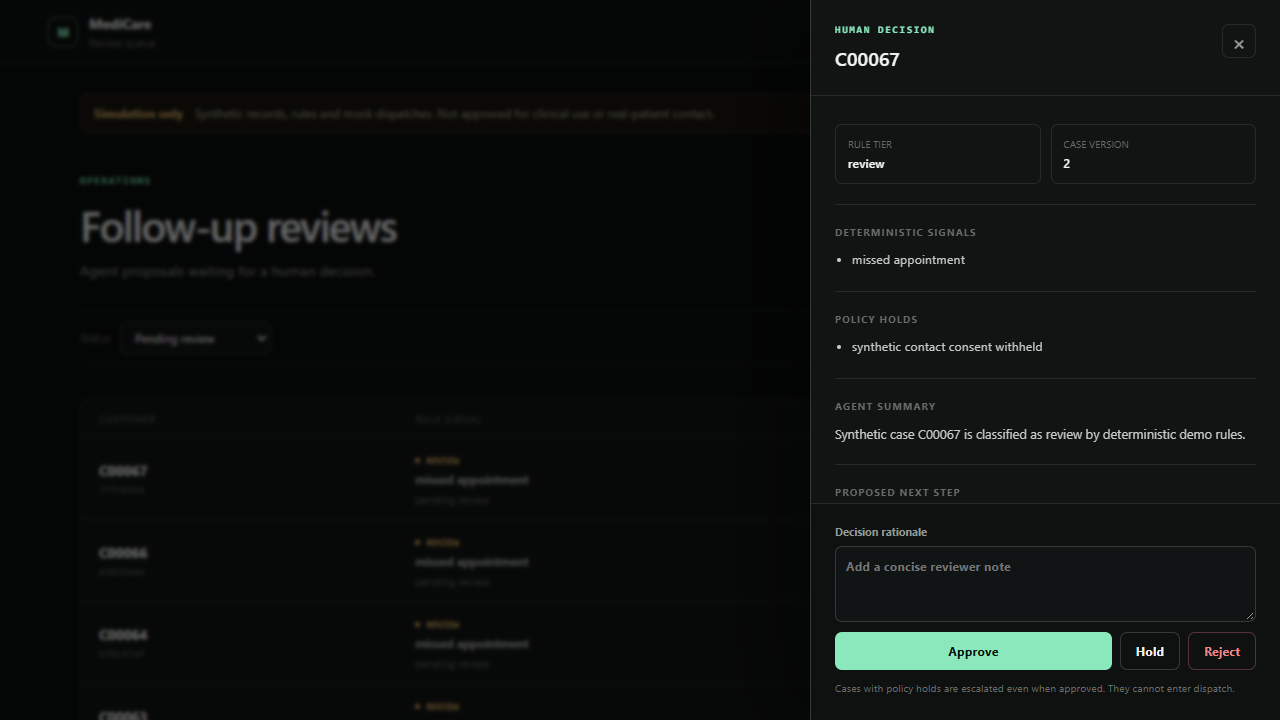
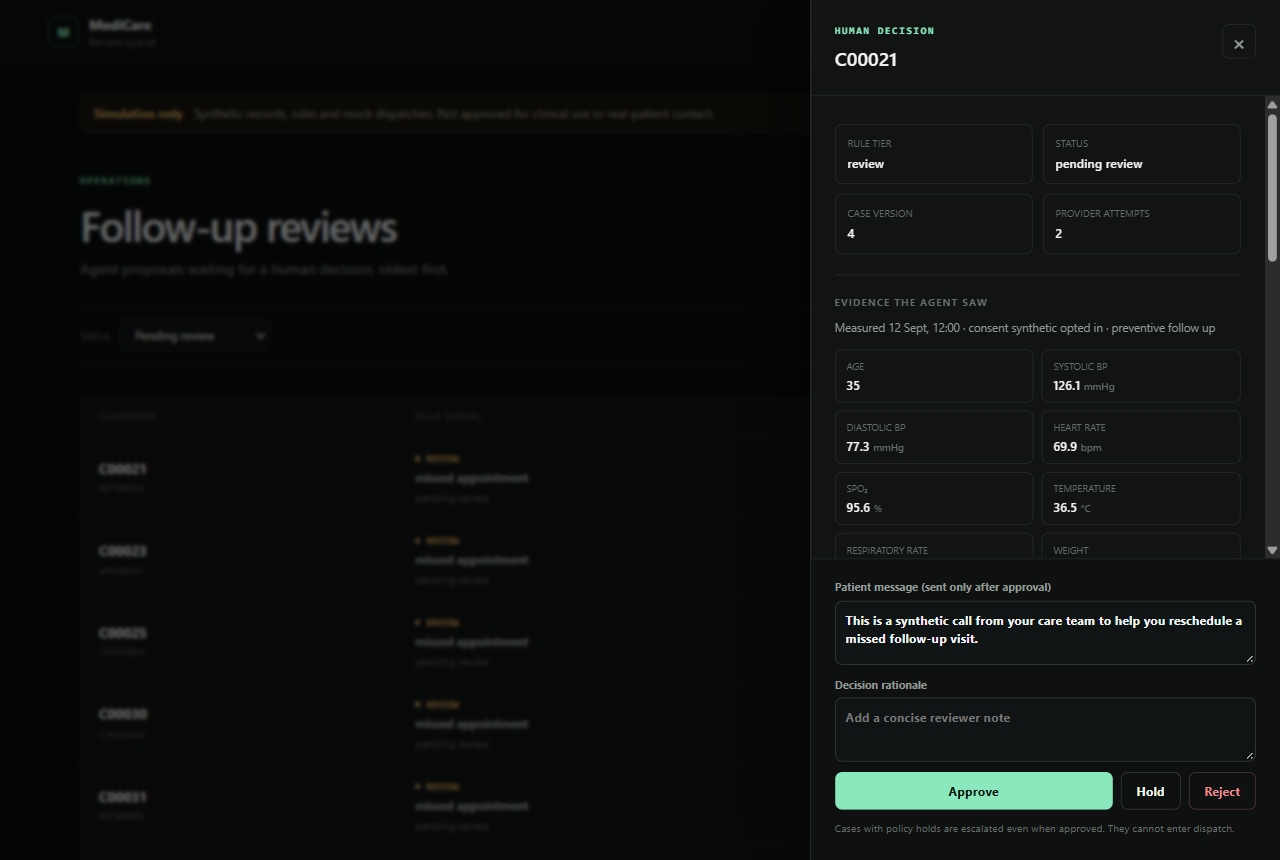
Document hardening and add verification evidence
- README: screenshots of the queue, evidence grid, guardrail rejection,
  escalated case and the OIDC + TOTP sign-in, plus a verification table.
- VERIFICATION: PostgreSQL, container stack, pip-audit and Keycloak
  identity-provider results, with reproducible setup steps.
- Architecture, security, operations and data dictionary updated for
  the new state machine, recovery paths and audit sealing.
- ops/keycloak/medicare-realm.dev.json: local-only test realm.

diff --git a/README.md b/README.md
@@ -27,11 +27,17 @@ The model drafts a bounded proposal. Deterministic code owns the risk tier, cons
 
 - 10,000 reproducible synthetic customers and 15 measurements per customer.
 - FastAPI control plane and separate HTTP model gateway.
-- Mandatory approve, hold or reject review with stale-write protection.
+- Mandatory approve, hold or reject review with stale-write protection; held cases can be
+  re-reviewed and escalated cases are closed with a recorded rationale.
+- Reviewers see the exact evidence the agent saw and approve the patient-facing message, which
+  is separate from staff guidance and re-checked by guardrails when edited.
 - Versioned consent evidence and non-bypassable safety holds.
-- Idempotent case creation, transactional outbox and a separate authenticated caller service.
-- Hash-linked audit events.
-- Local reviewer keys plus production OIDC/JWT, reviewer scope and MFA enforcement.
+- Idempotent case creation, transactional outbox with lease recovery and a separate authenticated
+  caller service.
+- Automatic recovery of stuck model runs and bounded, backed-off provider retries.
+- Keyed (HMAC-SHA256), sealed audit chains that detect edits, forks and truncation.
+- Local reviewer keys plus production OIDC (authorization code + PKCE) with scope and MFA
+  enforcement.
 - File-mounted secrets and overlapping service-key rotation.
 - PostgreSQL/SQLite, Alembic, Docker Compose and non-root containers.
 - Protected Prometheus metrics, alert rules and worker heartbeats.
@@ -41,11 +47,45 @@ The generated measurements are blood pressure, heart rate, oxygen saturation, te
 
 ## Reviewer console
 
-The console keeps the queue compact and moves case evidence, guardrail holds, the proposal and the decision controls into a focused review drawer.
+The console keeps the queue compact (oldest first, paginated) and moves case evidence, guardrail
+holds, the proposal and the decision controls into a focused review drawer. Screenshots were
+captured on 2026-10-13 from a local run against the real API, model gateway and seeded 10,000-row
+synthetic dataset.
+
+**Review queue.** Pending cases, oldest first, with the deterministic rule signal for each.
 
 ![MediCare review queue](docs/assets/review-queue.png)
 
+**Case drawer.** Rule tier, status, version and provider attempts, then the decision form. The
+patient message is pre-filled from the proposal and is the only text that can leave the system.
+
 ![MediCare case review drawer](docs/assets/review-drawer.png)
+
+**Evidence the agent saw.** The stored snapshot of all 15 synthetic measurements, so a reviewer is
+not approving blind.
+
+![Evidence grid in the review drawer](docs/assets/review-evidence.png)
+
+**Guardrails on reviewer edits.** An edited message containing a phone number is rejected with the
+failing check shown inside the drawer. The audit chain status shows a valid, sealed chain.
+
+![Edited patient message blocked by guardrails](docs/assets/review-message-guardrail.png)
+
+**Escalated cases.** Cases with policy holds (here: consent withheld) never enter dispatch. The
+only action is to close them once offline follow-up is recorded.
+
+![Escalated case with close action](docs/assets/review-escalated.png)
+
+**Organization sign-in (OIDC + MFA).** In OIDC mode the console uses the authorization-code flow
+with PKCE. Verified against a real Keycloak 26.0.7 identity provider: password, then a TOTP second
+factor, then back to the console with an access token that the API validates against the IdP's
+JWKS (issuer, audience, `medicare:review` scope and `amr: ["mfa"]`). A password-only token was
+refused with `403 Reviewer MFA claim is required`. Setup steps are in
+[Verification](docs/VERIFICATION.md#identity-provider-login-keycloak).
+
+![Keycloak one-time code prompt](docs/assets/oidc-mfa-prompt.png)
+
+![Console signed in through the identity provider](docs/assets/oidc-signed-in.png)
 
 ## Local run
 
@@ -84,11 +124,16 @@ Run one automated batch through the service boundary:
 uv run python -m medicare_agent.worker automation --once
 ```
 
-Open `http://127.0.0.1:8000`, use the reviewer token from `REVIEWER_API_KEYS`, inspect a case and record a decision. Process an approved caller event with:
+Open `http://127.0.0.1:8000`, use the reviewer token from `REVIEWER_API_KEYS`, inspect a case and record a decision. Drain approved caller events with:
 
 ```powershell
-uv run medicare dispatch-one
+uv run python -m medicare_agent.worker dispatch --once
 ```
+
+Each automation tick also calls `POST /api/v1/agent/maintenance`, which fails model runs stuck in
+`provider_pending` and returns failed runs whose retry backoff has elapsed; the worker then retries
+them. Customers are marked when their first case is created, so retention never makes them eligible
+for automated contact again.
 
 ## Containers
 
@@ -98,7 +143,11 @@ docker compose up --build
 
 This starts PostgreSQL, migration/bootstrap, model gateway, caller service, API and both workers. The dashboard is available at `http://127.0.0.1:8000`.
 
-The production override removes inline application secrets and requires OIDC, HTTPS, explicit hosts and an approved release manifest:
+The production override removes inline application secrets and requires OIDC (including the
+browser client settings), HTTPS, explicit hosts, a file-mounted audit key, the reverse-proxy address
+in `FORWARDED_ALLOW_IPS` and an approved release manifest. Probes, `/metrics` and the service-key
+worker routes stay reachable over plain HTTP on the internal network; browser-facing routes require
+HTTPS as reported by the trusted proxy:
 
 ```powershell
 docker compose -f compose.yaml -f compose.production.yaml config
@@ -114,9 +163,15 @@ The default `MODEL_GATEWAY_MODE=stub` exercises the real HTTP path without an ex
 MODEL_GATEWAY_MODE=openai
 OPENAI_API_KEY_FILE=/run/secrets/openai_api_key
 OPENAI_MODEL=gpt-5-mini
+OPENAI_TIMEOUT_SECONDS=30
 ```
 
-The response is constrained by JSON Schema and validated again before reaching the workflow. External provider access was not used as evidence for this repository.
+Keep the API's `MODEL_GATEWAY_TIMEOUT_SECONDS` above `OPENAI_TIMEOUT_SECONDS` so the API never
+abandons a live model call. The gateway replays the first response for a repeated
+`Idempotency-Key`, so client retries are not billed twice. The structured-output schema drops
+length and title keywords (Pydantic re-validates them) to stay inside the strict-mode subset. The
+response is validated again before reaching the workflow. External provider access was not used as
+evidence for this repository.
 
 ## Caller integration
 
@@ -126,9 +181,13 @@ The included caller runs in `mock` mode and proves the complete approval-to-serv
 CALLER_MODE=http
 CALLER_PROVIDER_URL=https://voice.example.com/v1/calls
 CALLER_PROVIDER_API_KEY_FILE=/run/secrets/caller_provider_api_key
+CALLER_PROVIDER_IS_SYNTHETIC_SANDBOX=true
 ```
 
-The external service must accept the `CallerRequest` JSON contract and return `external_id`, `status: accepted` and `provider`. The caller forwards the outbox event ID as `Idempotency-Key`. A provider error returns `502`; the dispatch worker retries with bounded exponential backoff and dead-letters the event after the configured attempt limit. Real phone numbers are deliberately absent, and the runtime still permits synthetic records only.
+HTTP mode refuses to start unless the operator attests that the provider is a synthetic sandbox;
+live patient dispatch is not approved.
+
+The external service must accept the `CallerRequest` JSON contract and return `external_id`, `status: accepted` and `provider`. The caller forwards the outbox event ID as `Idempotency-Key`. A provider error returns `502`; the dispatch worker retries transient failures with bounded exponential backoff, dead-letters permanent `4xx` rejections immediately and dead-letters retries after the configured attempt limit. Events whose dispatcher died mid-call are reclaimed after `OUTBOX_LEASE_SECONDS`. Real phone numbers are deliberately absent, and the runtime still permits synthetic records only.
 
 ## Operations
 
@@ -136,6 +195,10 @@ The external service must accept the `CallerRequest` JSON contract and return `e
 # Status and audit
 uv run medicare stats
 uv run medicare verify-audit <case-id>
+
+# Recover stuck runs / retry one failed model run
+uv run medicare maintenance
+uv run medicare retry-case <case-id>
 
 # Preview retention; --execute is deliberately explicit
 uv run medicare retention-sweep
@@ -160,13 +223,36 @@ uv lock --check
 uv run ruff format --check .
 uv run ruff check .
 uv run mypy src services scripts
-uv run pytest --cov=medicare_agent --cov-branch --cov-report=term-missing
+uv run pytest --cov --cov-report=term-missing
 uv run python scripts/generate_synthetic_data.py --validate-only
+$env:DATABASE_URL = "sqlite:///./ci-migrations.db"
+uv run alembic upgrade head
+uv run alembic check
 uv run pip-audit -r audit-requirements.txt
 docker compose config --quiet
 ```
 
 The executed results and remaining external approvals are recorded in [Verification](docs/VERIFICATION.md).
+
+### Latest verification (2026-10-13)
+
+| Check | Result |
+|---|---|
+| `pytest --cov` (SQLite) | 134 passed; 100% statement and branch coverage across `medicare_agent` and `services` |
+| `pytest` with `TEST_DATABASE_URL` on PostgreSQL 17.11 | 133 passed, 1 skipped (needs SQLite's switchable check constraint) |
+| `ruff format --check`, `ruff check`, strict `mypy` | Passed |
+| `alembic upgrade head` → `alembic check` → `downgrade base` → `upgrade head` | No model/migration drift; round trip clean on SQLite and PostgreSQL |
+| `0002` → `0003` upgrade on a database with legacy rows | Follow-up markers, attempt counts, patient messages and legacy audit hash version backfilled on SQLite and PostgreSQL |
+| Base and production `docker compose config` | Both valid |
+| `docker compose up --build` on PostgreSQL with `ENFORCE_HTTPS=true` | Images built; every service healthy; containers run as uid 10001; automation created 240 cases with no errors; a review then dispatched through the containerised caller (`delivered`, sealed audit chain); `/` over plain HTTP returned `400` |
+| `pip-audit` on the locked dependencies | No known vulnerabilities found |
+| Real OIDC login (Keycloak 26.0.7, PKCE, TOTP) | Password-only token refused (`403`); password + TOTP token accepted; review recorded under the Keycloak subject |
+| Seed of the full 10,000-row CSV with row validation | 10,000 seeded |
+| Live services with `ENFORCE_HTTPS=true` | Probes, metrics and workers work over internal HTTP; `/` returns `400`; a spoofed `X-Forwarded-Proto` from an untrusted client returns `400` |
+| Live gateway outage, then recovery | 3 runs failed, then were retried to `pending_review` by the next automation tick |
+| Live review and dispatch | Unsafe edited message rejected (`422`); approved edited message is the text delivered to the caller; audit chain valid and sealed |
+| Live retention sweep of a dispatched case | Customer marker kept; no new case created; sweep recorded in the audit log |
+| Reviewer console in Chromium | Screenshots above; no console errors or accessibility warnings |
 
 ## Documentation
 

diff --git a/docs/ARCHITECTURE.md b/docs/ARCHITECTURE.md
@@ -6,18 +6,19 @@
 2. The agent API is the control plane. It validates identity/input, reads the record, runs deterministic synthetic rules, persists state and calls the model gateway.
 3. The model gateway is isolated. It receives a minimized synthetic snapshot and returns only a schema-valid proposal. It has no database or dispatch credentials.
 4. A deterministic guardrail layer checks the untrusted proposal for treatment directions, diagnostic certainty, embedded contact targets, consent/channel conflicts, duplicate reasoning and missing urgent-escalation language. Failures become non-bypassable holds.
-5. The reviewer console is the human decision boundary. Reviewer credentials cannot invoke service-only agent/dispatch endpoints.
+5. The reviewer console is the human decision boundary. It shows the evidence snapshot the model saw and the patient-facing message, which is separate from staff guidance; reviewer edits to that message pass the same content guardrails. Reviewer credentials cannot invoke service-only agent/dispatch endpoints.
 6. The dispatcher reads only approved outbox events and calls the authenticated caller service with the event ID as its idempotency key. Policy-held, urgent, rejected, stale or non-synthetic events fail closed.
 
 ## Case state machine
 
 ```text
-provider_pending
-  |-- provider error --------------------> provider_failed
-  `-- valid proposal --------------------> pending_review
+provider_pending <---- retry (attempts left, backoff elapsed) ----.
+  |-- provider error / stale run ------> provider_failed ---------'
+  `-- valid proposal --------------------> pending_review / on_hold
                                               |-- reject --> rejected
-                                              |-- hold ----> on_hold
+                                              |-- hold ----> on_hold (re-reviewable)
                                               |-- approve + any hold --> human_escalated
+                                              |                              `-- close --> closed
                                               `-- approve + no holds -> approved
                                                                            |
                                                                      caller service
@@ -25,16 +26,20 @@ provider_pending
                                                                       dispatched
 ```
 
-Only `pending_review` accepts a review. The request must carry the current case version; the database transition compares the expected version, status and identifier atomically. Only `approved` plus an empty hold list can be delivered.
+`pending_review` and `on_hold` accept approve, hold or reject. `human_escalated` accepts only
+`close`, recorded after offline handling; it can never enter dispatch. Runs left in
+`provider_pending` longer than `PROVIDER_STALE_SECONDS` are failed by the maintenance endpoint, and
+failed runs are retried up to `PROVIDER_MAX_ATTEMPTS` with exponential backoff. Every review request must carry the current case version; the database transition compares the expected version, status and identifier atomically. Only `approved` plus an empty hold list can be delivered.
 
 ## Reliability properties
 
 - Unique idempotency keys prevent duplicate agent runs.
-- A unique outbox constraint permits one dispatch intent per case.
+- A unique outbox constraint permits one dispatch intent per case. A dispatcher that dies mid-call leaves a lease that is reclaimed after `OUTBOX_LEASE_SECONDS`; the caller's idempotency key makes the repeat safe.
+- `customers.follow_up_started_at` records that automation has handled a customer. Retention deletes cases but never this marker, so purged customers are not contacted again.
 - Workers call the API rather than importing orchestration logic, exercising the deployed service boundary.
-- Model and caller requests use bounded timeouts and retries. Model failure creates a visible terminal state; caller failure returns the event to the outbox with backoff and eventually dead-letters it.
+- Model and caller requests use bounded timeouts and retry only transport errors, `5xx`, `408`, `425` and `429`; other `4xx` responses fail immediately. Model failure creates a visible, retryable state; transient caller failure returns the event to the outbox with backoff, and permanent rejection or exhausted attempts dead-letter it. Configuration validation keeps stale-run and lease thresholds above the retry budgets.
 - FastAPI `def` handlers deliberately match the synchronous SQLAlchemy layer and run in the framework thread pool. Long-running automation and dispatch live in independent workers, so blocking I/O is not placed on the event loop.
-- Audit entries include the previous event hash and canonicalized content hash. This detects application-visible tampering; it is not a substitute for immutable external log storage.
+- Audit entries are HMAC-SHA256 hashes over canonical content and the previous hash, keyed by `AUDIT_HMAC_KEY`. A per-aggregate head row stores a keyed seal over the event count and newest hash, and a unique index on the chain link prevents forks. Verification walks hash links rather than timestamps and detects edits, forks, unlinked events and truncation. Pre-0003 events verify as legacy, unsealed chains until their next append. This is not a substitute for immutable external log storage.
 - SQLite supports the local vertical slice. Multi-replica deployments require PostgreSQL.
 
 ## Scaling path

diff --git a/docs/VERIFICATION.md b/docs/VERIFICATION.md
@@ -64,6 +64,43 @@ Issues found and fixed during the two bug-hunting cycles:
 - A 10-VU, 30-second local k6 rerun passed: 508 requests, zero HTTP failures, 762/762 checks, p95 910.12 ms and p99 1.20 seconds.
 - The reviewer UI was exercised in Chromium at desktop and 390-pixel mobile widths with zero console errors.
 
+## Review hardening verification (2026-10-13)
+
+Executed locally with Python 3.14.3, uv 0.12.3 and Docker Engine 28.3.3.
+
+- `pytest --cov`: 134 passed, 100% statement and branch coverage across `medicare_agent` and
+  `services`. With `TEST_DATABASE_URL` pointing at PostgreSQL 17.11: 133 passed, 1 skipped.
+  Running on PostgreSQL exposed that SQLite had never enforced foreign keys; the engine now enables
+  `PRAGMA foreign_keys=ON` and a test fixture that inserted rows out of order was fixed.
+- Alembic upgrade, `alembic check`, downgrade to base and upgrade again: clean on SQLite and
+  PostgreSQL. A `0002` database with legacy rows upgraded to `0003` with all backfills applied.
+- `docker compose up --build` with an override setting `ENFORCE_HTTPS=true`: all services healthy,
+  workers processed cases over internal HTTP, a reviewed case was dispatched through the caller
+  container and recorded as `delivered` with a sealed audit chain in PostgreSQL.
+- `pip-audit -r audit-requirements.txt`: no known vulnerabilities found.
+
+### Identity provider login (Keycloak)
+
+The OIDC console flow was exercised against Keycloak 26.0.7 in development mode:
+
+1. `docker run -p 127.0.0.1:8080:8080 -e KC_BOOTSTRAP_ADMIN_USERNAME=admin -e KC_BOOTSTRAP_ADMIN_PASSWORD=<local> -v ./ops/keycloak:/opt/keycloak/data/import:ro quay.io/keycloak/keycloak:26.0.7 start-dev --import-realm`
+   imports `ops/keycloak/medicare-realm.dev.json` (public PKCE client `medicare-console`, audience
+   mapper for `medicare-api`, a synthetic `reviewer` user). The file is for local verification only.
+2. With `kcadm.sh`: create an optional-in-token client scope named `medicare:review` and add it as a
+   default scope of `medicare-console`; add an `oidc-amr-mapper` to the client; add authenticator
+   configs with `default.reference.value` of `pwd` (Username Password Form) and `mfa` (OTP Form) on
+   the built-in browser flow; give the user the `CONFIGURE_TOTP` required action.
+3. Run the API with `REVIEWER_AUTH_MODE=oidc`, the realm's issuer, JWKS, authorization and token
+   URLs, `OIDC_CLIENT_ID=medicare-console`, `OIDC_AUDIENCE=medicare-api` and `OIDC_REQUIRE_MFA=true`.
+   Plain-HTTP OIDC URLs are accepted only for loopback hosts in `local`/`test`.
+
+Results: a password-only token (with valid signature, issuer, audience and scope) was refused with
+`403 Reviewer MFA claim is required`. After TOTP enrolment, a password + one-time-code login
+produced `amr: ["mfa"]`, the queue loaded with the bearer token and a review was stored with the
+Keycloak subject as `reviewer_id`. Copying Keycloak 26.0.7's built-in browser flow made the login
+page fail with `invalid_user_credentials` before any input, so the references were added to the
+built-in flow instead.
+
 ## Intentionally unverified or disabled
 
 - The OpenAI-backed model adapter was not called with a funded external key. The verified model path uses the real HTTP gateway in deterministic stub mode.

diff --git a/docs/OPERATIONS.md b/docs/OPERATIONS.md
@@ -7,7 +7,7 @@
 - `GET /metrics`: Prometheus text, protected by a service bearer token.
 - JSON request logs and `X-Request-ID` support request tracing without record payloads.
 
-Metrics cover request rate/latency, pending-review count and age, provider failures, dead letters, audit failures and worker heartbeat age. `ops/alerts.yml` turns those into safety and reliability alerts. The local Alertmanager receiver only keeps alerts visible; production must use an owned on-call route.
+Metrics cover request rate/latency, cases by status, pending-review count and age, provider failures, dead letters, leased outbox events, audit failures and worker heartbeat age. `ops/alerts.yml` turns those into safety and reliability alerts. The local Alertmanager receiver only keeps alerts visible; production must use an owned on-call route.
 
 ## Backup and recovery
 
@@ -17,7 +17,7 @@ For PostgreSQL, `scripts/postgres_backup_restore_drill.ps1` creates a custom-for
 
 ## Retention
 
-`medicare retention-sweep` previews closed cases older than `RETENTION_DAYS`. `--execute` is required to delete a bounded batch. The sweep removes reviews, provider metadata, outbox records and the corresponding case audit chain before deleting the case. Active, held, escalated and pending cases are not eligible.
+`medicare retention-sweep` previews closed cases (`dispatched`, `rejected`, `closed`, and `provider_failed` with no attempts left) older than `RETENTION_DAYS`. `--execute` is required to delete a bounded batch. The sweep removes reviews, provider metadata, outbox records and the corresponding case audit chain and seal before deleting the case, then records the deleted case IDs in a `retention_sweep` audit event. Active, held, escalated, pending and still-retryable cases are not eligible. Customer follow-up markers are kept, so a purged case never re-triggers automated contact.
 
 The command covers this synthetic schema. A real deployment would need an approved record schedule, legal holds and subject-rights workflow before real data could be enabled; this build does not enable it.
 
@@ -36,8 +36,8 @@ Rollback application images independently of the database. Prefer a forward-fix 
 
 ## Incident actions
 
-- **Gateway outage:** stop new automation if failures persist; no fallback proposal is allowed.
-- **Stuck/dead-letter event:** stop dispatch workers and inspect the case, holds and idempotency key. Never create a replacement event by hand.
+- **Gateway outage:** failed runs are retried automatically with backoff up to `PROVIDER_MAX_ATTEMPTS`; stop new automation if failures persist. No fallback proposal is allowed. `medicare retry-case <id>` retries one case manually.
+- **Stuck/dead-letter event:** leased events are reclaimed automatically after `OUTBOX_LEASE_SECONDS`. For dead letters, stop dispatch workers and inspect the case, holds and idempotency key. Never create a replacement event by hand.
 - **Audit failure:** stop mutations for the affected aggregate and preserve database/log evidence.
 - **Credential exposure:** remove the compromised key after an overlap rotation, restart its clients and review request IDs.
 - **Bad rule release:** stop workers, roll back the image, preserve cases for review and add a regression fixture.

diff --git a/docs/SECURITY.md b/docs/SECURITY.md
@@ -3,7 +3,7 @@
 ## Trust boundaries
 
 - Workers authenticate to the API with rotatable service keys.
-- Reviewers use local keys only in local/test; staging and production require an OIDC bearer token with `medicare:review` and an MFA claim.
+- Reviewers use local keys only in local/test; staging and production require an OIDC bearer token with `medicare:review` (in `scope` or `scp`) and an MFA claim. The console obtains it with the authorization-code flow and PKCE; the CSP allows only the token endpoint origin in addition to `self`.
 - The API calls the model gateway and caller service with separate credentials.
 - PostgreSQL, model gateway and caller service are on the internal Compose network.
 - Model, provider and browser inputs are untrusted. Deterministic code owns all state changes.
@@ -16,8 +16,9 @@
 - Strict request/model schemas, deterministic output guardrails, bounded retries and provider timeouts.
 - Consent evidence, policy holds and mandatory human review.
 - Optimistic concurrency, idempotency and transactional outbox.
-- Hash-linked audit events and tamper checks.
-- Explicit hosts, HTTPS enforcement, CSP, HSTS on HTTPS, no-store responses and frame denial.
+- Keyed (HMAC-SHA256), sealed audit chains with fork, edit and truncation detection.
+- Explicit hosts, HTTPS enforcement for browser routes, forwarded headers trusted only from `FORWARDED_ALLOW_IPS`, validated request IDs, CSP, HSTS on HTTPS, no-store responses and frame denial.
+- The model gateway and caller service refuse default or inline keys in staging/production; caller HTTP mode requires an explicit synthetic-sandbox attestation.
 - Non-root image, separated networks, protected metrics and minimal CI permissions.
 - No names, email addresses, phone numbers, postal addresses or free-text clinical notes in the dataset.
 
@@ -29,7 +30,7 @@
 | Unauthorized review | OIDC scope, MFA, issuer/audience checks | IdP policy and access recertification |
 | Duplicate or stale action | Idempotency, case version, unique outbox | Queue replay exercises |
 | Provider outage | Timeout, retry, visible failure, no fallback | On-call provider escalation |
-| Audit tampering | Hash chain and alert counter | WORM/SIEM export |
+| Audit tampering | Keyed, sealed hash chain and alert counter | WORM/SIEM export and external anchoring of chain heads |
 | Secret exposure | File mounts, role separation, overlap rotation | Managed secret store and rotation policy |
 | Data disclosure | Synthetic minimized dataset | DPIA, DLP, KMS and approved retention for any future real data |
 | Outbound abuse | Human approval, consent/hold checks, service auth, idempotent caller contract | Approved contact provider and destination verification |

diff --git a/docs/DATA_DICTIONARY.md b/docs/DATA_DICTIONARY.md
@@ -29,9 +29,11 @@ Values are correlated enough to exercise software paths but are not a validated 
 ## Operational records
 
 - `consent_evidence`: versioned synthetic evidence for the `mock_follow_up` purpose. Missing, withheld or expired evidence creates a dispatch-blocking hold.
-- `follow_up_cases`: deterministic risk result, model proposal, policy holds and state version.
-- `human_reviews`: reviewer identity, decision, rationale and reviewed case version.
+- `customers.follow_up_started_at`: set when the first case is created; automation skips marked customers and retention never clears it.
+- `follow_up_cases`: deterministic risk result, the evidence snapshot sent to the model, model proposal (staff guidance plus a separate patient message), policy holds, provider attempt count and state version.
+- `human_reviews`: reviewer identity, decision, rationale, the approved patient message (approvals only) and reviewed case version.
 - `provider_calls`: provider/model, status, latency and request ID; request payloads are not stored.
 - `outbox_events`: idempotent mock-delivery request and status.
-- `audit_events`: hash-linked aggregate events.
+- `audit_events`: HMAC-linked aggregate events; `hash_version` 1 marks legacy unkeyed rows.
+- `audit_heads`: per-aggregate event count, newest hash and keyed seal used to detect truncation.
 - `worker_heartbeats`: latest worker timestamp, status and processed count without customer payloads.
